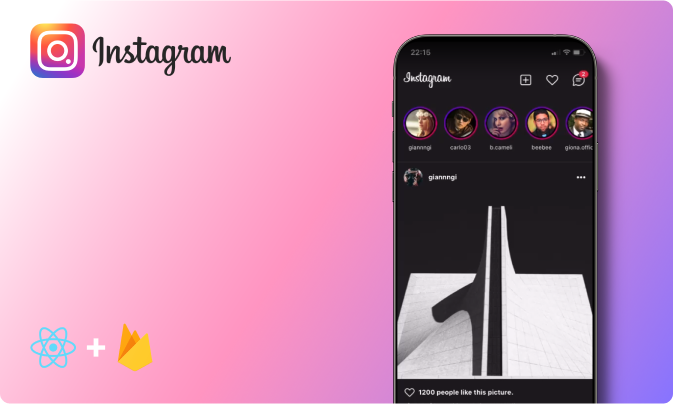
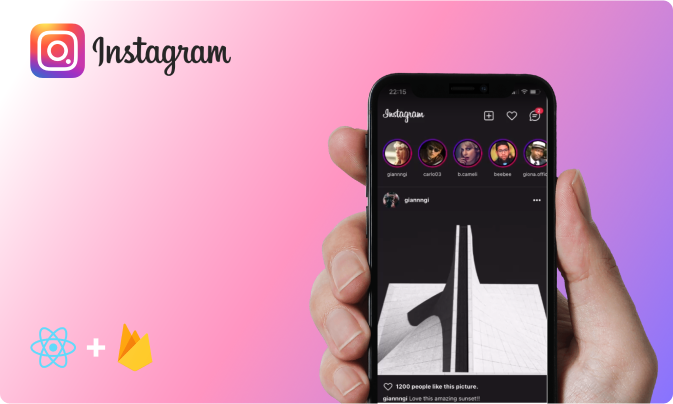
Update covers, add work-in-progress

Changed region(s): [[0.4368, 0.0594, 0.9985, 1.0]]

diff --git a/src/data.js b/src/data.js
@@ -9,8 +9,9 @@ import VerifyLogo from './assets/images/projects/logos/verify-logo.png';
 import Connector from './assets/images/projects/connector-banner.png';
 import Verify from './assets/images/projects/verify-banner.png';
 import DaniloWeb from './assets/images/projects/danilo-web-banner.png';
-import QuietGuyWeb from './assets/images/projects/quietguy-web-banner.png';
+import QuietGuyWeb from './assets/images/projects/thequietguy-banner.png';
 import InstagramClone from './assets/images/projects/instagram-clone-banner.png';
+import Temporary from './assets/images/projects/temporary-banner.png';
 
 const projects = [
   {
@@ -22,7 +23,6 @@ const projects = [
     image: Carousel,
     logo: CarouselLogo,
     status: 'active',
-    longDescription: `<p>Long description of projects is still in progress.</p>`,
     linkToProject: 'https://carousel-learning.com',
   },
   {
@@ -34,7 +34,6 @@ const projects = [
     image: Entrelibros,
     logo: EntrelibrosLogo,
     status: 'active',
-    longDescription: `<p>Long description of projects is still in progress.</p>`,
     linkToProject: 'https://entrelibros.net',
   },
   {
@@ -45,7 +44,6 @@ const projects = [
     image: RiseRosaRage,
     logo: RiseRosaRageLogo,
     status: 'inProgress',
-    longDescription: `<p>Long description of projects is still in progress.</p>`,
   },
   {
     name: 'Aircury Connector',
@@ -57,7 +55,6 @@ const projects = [
     image: Connector,
     logo: ConnectorLogo,
     status: 'active',
-    longDescription: `<p>Long description of projects is still in progress.</p>`,
   },
   {
     name: 'Aircury School Verify',
@@ -69,7 +66,6 @@ const projects = [
     image: Verify,
     logo: VerifyLogo,
     status: 'active',
-    longDescription: `<p>Long description of projects is still in progress.</p>`,
   },
   {
     name: 'Danilo Barzaghini - Website',
@@ -80,7 +76,6 @@ const projects = [
       "Danilo Barzaghini's multi-language personal website - project from Fiverr.",
     image: DaniloWeb,
     status: 'active',
-    longDescription: `<p>Long description of projects is still in progress.</p>`,
   },
   {
     name: 'The Quiet Guy - Portfolio',
@@ -90,7 +85,6 @@ const projects = [
     description: "TheQuietGuy's portfolio website - project from Fiverr.",
     image: QuietGuyWeb,
     status: 'active',
-    longDescription: `<p>Long description of projects is still in progress.</p>`,
   },
   {
     name: 'Instagram Clone',
@@ -101,7 +95,6 @@ const projects = [
     description: 'Instagram clone built with React Native and Firebase.',
     image: InstagramClone,
     status: 'demo',
-    longDescription: `<p>Long description of projects is still in progress.</p>`,
   },
   {
     name: 'ECommerce API',
@@ -110,10 +103,10 @@ const projects = [
     linkToProject:
       'https://github.com/gianluigitrontini/basic-ecommerce_react-node-mongodb',
     description:
-      'Simple implementation of an ecommerce functionality with minor UI styling. Add To Cart functionality using Redux and products API built with Node.Js and a local MongoDB database.',
-    image: QuietGuyWeb,
+      'Simple implementation of an ecommerce store with minor UI styling. Authentication, Cart functionality using Redux and products API built with Node.js and MongoDB.',
+    image: Temporary,
+    noCover: true,
     status: 'demo',
-    longDescription: `<p>Long description of projects is still in progress.</p>`,
   },
   {
     name: 'Social Network',
@@ -123,9 +116,9 @@ const projects = [
       'https://github.com/gianluigitrontini/social-network_react-mongodb',
     description:
       'A kind of Facebook but for University. Just like Facebook was, but in 2021. React + Node + MongoDB.',
-    image: QuietGuyWeb,
-    status: 'demo',
-    longDescription: `<p>Long description of projects is still in progress.</p>`,
+    image: Temporary,
+    noCover: true,
+    status: 'inProgress',
   },
 ];
 

diff --git a/src/components/Main/Main.js b/src/components/Main/Main.js
@@ -72,14 +72,7 @@ function Main() {
         <div className='projects--wrapper'>
           {projects.map((prj) => (
             <Link to={`projects/${prj.slug}`}>
-              <Project
-                project={prj}
-                key={`project-${prj.name}`}
-                image={prj.image}
-                title={prj.name}
-                description={prj.description}
-                status={prj.status}
-              />
+              <Project project={prj} key={`project-${prj.name}`} />
             </Link>
           ))}
         </div>
@@ -95,18 +88,24 @@ function Main() {
               <BlockWithIcon icon='location' text='Monteprandone, Italy' />
 
               <BlockWithIcon icon='mail' text='gianluigitrontini@gmail.com' />
-              <span className='subtitle text-left mx-auto'>Find more on</span>
+              <span className='subtitle text-left mx-auto mb-4'>
+                Find more on
+              </span>
               <div className='social--container gap-6'>
-                <BlockWithIcon
-                  icon='github'
-                  url='https://github.com/gianluigitrontini'
-                  text='Github'
-                />
-                <BlockWithIcon
-                  icon='linkedin'
-                  url='https://www.linkedin.com/in/gianluigi-trontini-9b5a0b103/'
-                  text='Linkedin'
-                />
+                <button className='bg-white border-2 border-black px-6 hover:bg-black hover:text-white'>
+                  <BlockWithIcon
+                    icon='github'
+                    url='https://github.com/gianluigitrontini'
+                    text='Github'
+                  />
+                </button>
+                <button className='bg-white border-2 border-black px-6 hover:bg-black hover:text-white'>
+                  <BlockWithIcon
+                    icon='linkedin'
+                    url='https://www.linkedin.com/in/gianluigi-trontini-9b5a0b103/'
+                    text='Linkedin'
+                  />
+                </button>
               </div>
             </div>
           </div>

diff --git a/src/components/Projects/Project.js b/src/components/Projects/Project.js
@@ -2,14 +2,19 @@ import React from 'react';
 
 import Status from './Status';
 
-function Project({ image, title, description, status }) {
+function Project({ project }) {
   return (
     <div className='projects--item'>
-      <Status status={status} />
-      <img src={image && image} alt={title} />
+      <Status status={project.status} />
+      {project.noCover && (
+        <h3 className='absolute top-[50%] left-[50%] transform translate-y-[-50%] translate-x-[-50%] text-3xl text-black opacity-30 font-bold tracking-wider'>
+          {project.name}
+        </h3>
+      )}
+      <img src={project.image && project.image} alt={project.name} />
       <button className='projects--info-overlay'>
-        <h3 className='project--title font-bold'>{title}</h3>
-        <p className='project--description'>{description}</p>
+        <h3 className='project--title font-bold'>{project.name}</h3>
+        <p className='project--description'>{project.description}</p>
       </button>
     </div>
   );

diff --git a/src/pages/Project.js b/src/pages/Project.js
@@ -38,7 +38,7 @@ function Project2() {
         : setProjectDescription({
             description: null,
             error:
-              'There may be a problem related to Github that does not allow us to retrieve the description. Please, try again later or visit Github.',
+              'There may be a problem related to Github that does not allow to retrieve the description. Please, try again later or visit Github.',
           })
     );
   };
@@ -107,7 +107,7 @@ function Project2() {
                 id='projects-description'
                 className='text-left py-4 lg:py-16'>
                 {projectDescription.error && (
-                  <div className='bg-red-100 p-4'>
+                  <div className='bg-red-100 border border-red-200 rounded-sm p-4'>
                     {projectDescription.error}
                   </div>
                 )}

diff --git a/src/components/Main/Contact/ContactForm.js b/src/components/Main/Contact/ContactForm.js
@@ -46,7 +46,7 @@ function ContactForm() {
       <button
         type='submit'
         id='contact_send'
-        className='bg-black py-2 px-4 text-white'>
+        className='send-button bg-black py-2 px-4 text-white'>
         Send →
       </button>
     </form>

diff --git a/src/assets/styles/_contact.scss b/src/assets/styles/_contact.scss
@@ -53,7 +53,7 @@
     padding: 0.5rem 0.75rem;
     padding-top: 1rem;
   }
-  button {
+  .send-button {
     display: inline-block;
     margin: 0.75rem 0;
     outline: none;
